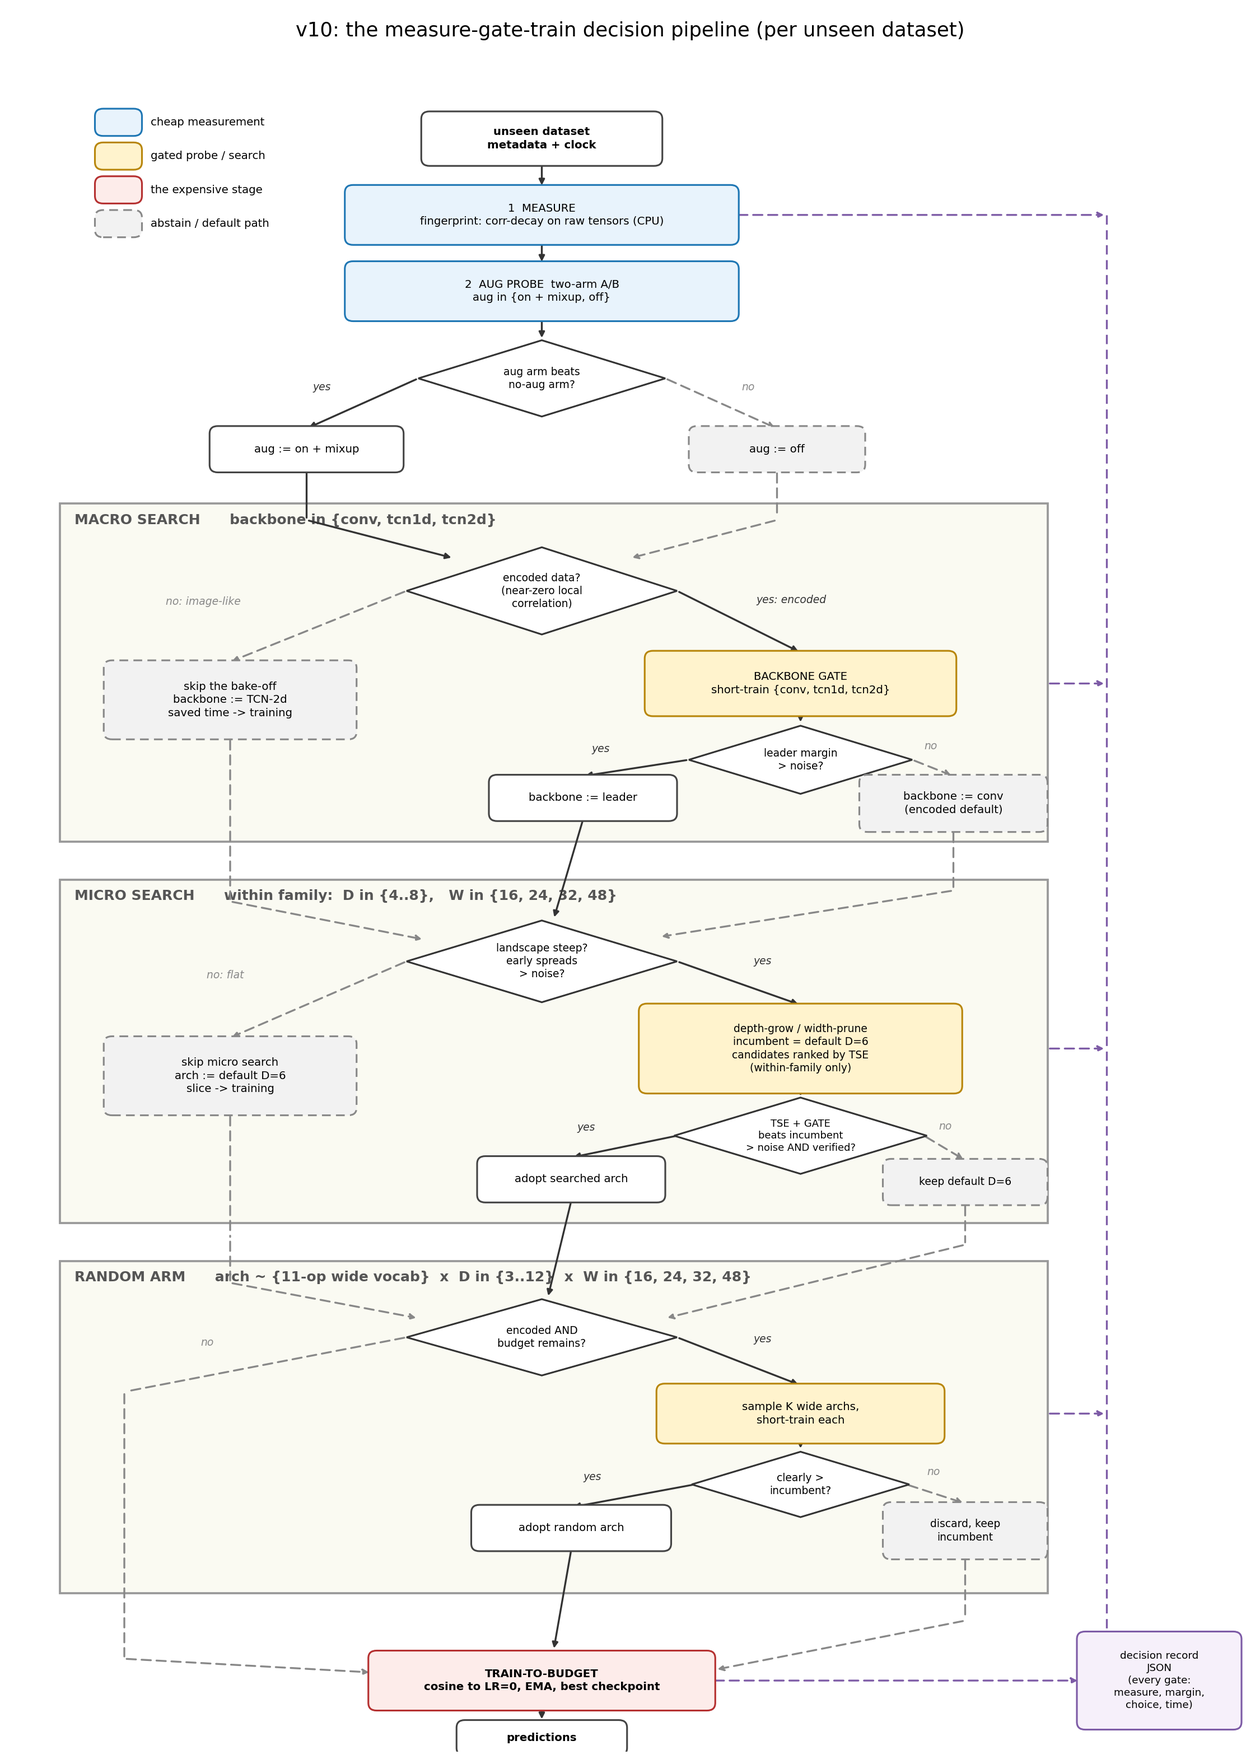
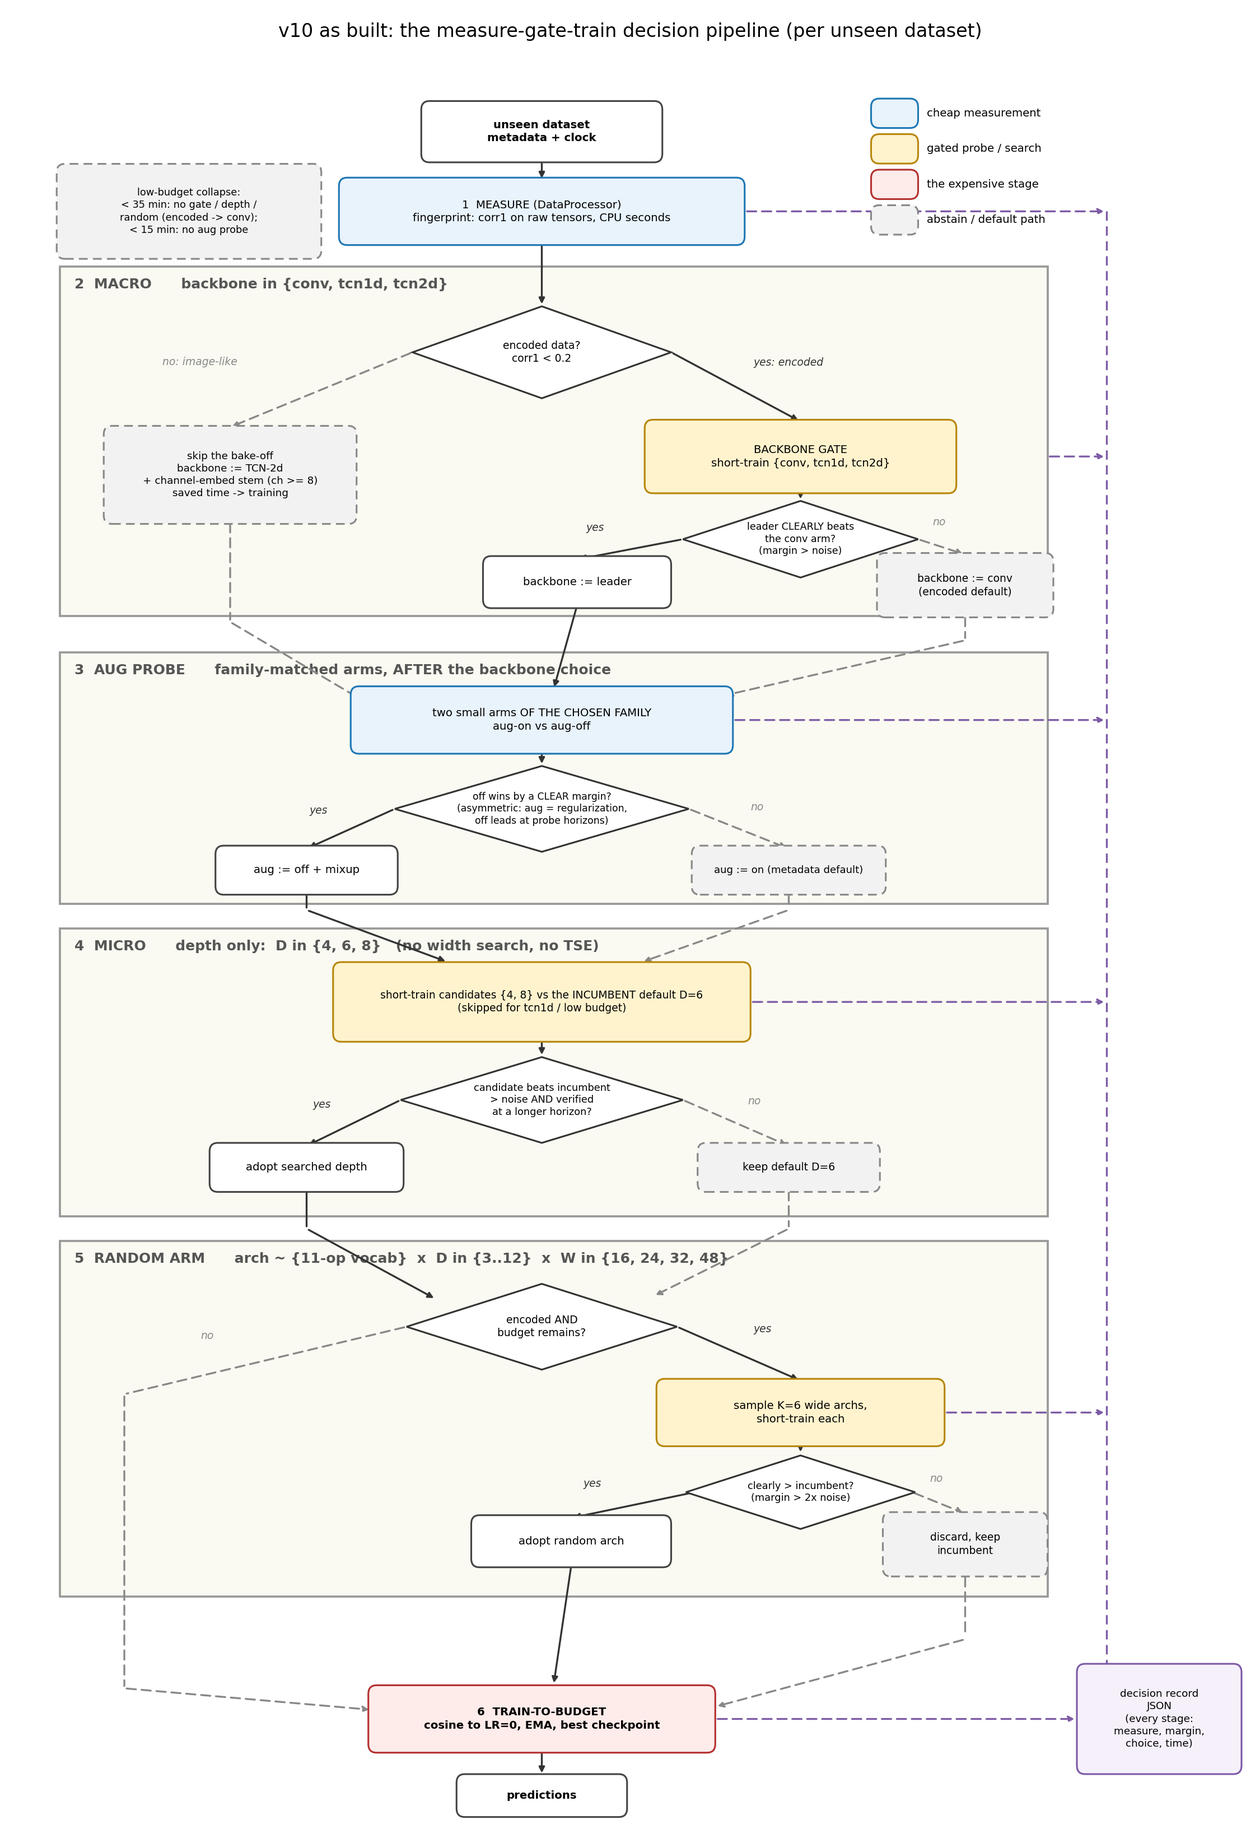
Pipeline diagram updated to as-built v10: aug probe after backbone choice (family-matched, asymmetric), depth-only micro, collapse note

diff --git a/dev/plot_v10_pipeline.py b/dev/plot_v10_pipeline.py
@@ -1,13 +1,11 @@
 #!/usr/bin/env python3
-"""v10 decision-pipeline figure (standalone image version of the mermaid
-draft in [[v10 - Design + Idea Ledger]]).
+"""v10 decision-pipeline figure, AS BUILT in baselines/v10 (2026-06-11).
 
-Structure: vertical flow with three big container blocks (MACRO backbone
-search, MICRO within-family search, RANDOM ARM), every yes/no gate drawn as
-a diamond with both outcomes, dashed = abstain/default path, search spaces
-in {} notation. No evidence numbers (clean structural version).
-Layout uses a large canvas with generous spacing; the decision-record rail
-sits fully outside the containers to avoid any overlap.
+Matches the implementation: aug probe AFTER the backbone choice with
+family-matched arms and the asymmetric off-margin rule (A5b + A6); micro =
+depth only with the D=6 incumbent (width search and TSE dropped per
+Phase A); random arm encoded-only; low-budget collapse note; decision-record
+rail outside the containers. No evidence numbers (clean structural version).
 """
 from pathlib import Path
 
@@ -19,16 +17,16 @@ from matplotlib.patches import FancyBboxPatch, Polygon, Rectangle
 REPO = Path(__file__).resolve().parent.parent
 OUT = REPO / "docs/notes/09 - Implementation/implementation/images/v10_pipeline.png"
 
-C_MEAS = ("#e8f3fc", "#1f77b4")   # measurement (cheap)
-C_GATE = ("#fff3cd", "#b8860b")   # gated probe / search
-C_TRAIN = ("#fdecea", "#b53030")  # the expensive stage
-C_DEF = ("#f2f2f2", "#888888")    # abstain / default path
-C_ART = ("#f6f0fa", "#7d5ba6")    # artifact
+C_MEAS = ("#e8f3fc", "#1f77b4")
+C_GATE = ("#fff3cd", "#b8860b")
+C_TRAIN = ("#fdecea", "#b53030")
+C_DEF = ("#f2f2f2", "#888888")
+C_ART = ("#f6f0fa", "#7d5ba6")
 C_PLAIN = ("#ffffff", "#444444")
 
-fig, ax = plt.subplots(figsize=(15, 21))
+fig, ax = plt.subplots(figsize=(15, 22))
 ax.set_xlim(0, 21)
-ax.set_ylim(0, 30.6)
+ax.set_ylim(3.8, 32.4)
 ax.axis("off")
 
 
@@ -76,104 +74,104 @@ def arrow(pts, dashed=False, label=None, lab_dx=0.15, lab_dy=0.0, color=None):
                 style="italic")
 
 
-# ---- top flow (spine at x=9) ----------------------------------------------
-box(9, 29.6, 4.0, 0.9, "unseen dataset\nmetadata + clock", bold=True)
-box(9, 28.2, 6.6, 1.0, "1  MEASURE\nfingerprint: corr-decay on raw tensors (CPU)", C_MEAS)
-box(9, 26.8, 6.6, 1.0, "2  AUG PROBE  two-arm A/B\naug in {on + mixup, off}", C_MEAS)
-diamond(9, 25.2, 4.2, 1.4, "aug arm beats\nno-aug arm?")
-box(5.0, 23.9, 3.2, 0.75, "aug := on + mixup")
-box(13.0, 23.9, 2.9, 0.75, "aug := off", C_DEF, dashed=True)
+# ---- top ---------------------------------------------------------------------
+box(9, 31.6, 4.0, 0.9, "unseen dataset\nmetadata + clock", bold=True)
+box(9, 30.3, 6.8, 1.0, "1  MEASURE (DataProcessor)\nfingerprint: corr1 on raw tensors, CPU seconds", C_MEAS)
+box(3.0, 30.3, 4.4, 1.45, "low-budget collapse:\n< 35 min: no gate / depth /\nrandom (encoded -> conv);\n< 15 min: no aug probe", C_DEF, dashed=True, fs=8.5)
+arrow([(9, 31.15), (9, 30.8)])
 
-arrow([(9, 29.15), (9, 28.7)])
-arrow([(9, 27.7), (9, 27.3)])
-arrow([(9, 26.3), (9, 25.9)])
-arrow([(6.9, 25.2), (5.0, 24.28)], label="yes", lab_dx=-0.85, lab_dy=0.3)
-arrow([(11.1, 25.2), (13.0, 24.28)], dashed=True, label="no", lab_dx=0.35, lab_dy=0.3)
+# ---- MACRO -------------------------------------------------------------------
+container(0.8, 23.7, 17.6, 29.4, "2  MACRO      backbone in {conv, tcn1d, tcn2d}")
+diamond(9, 28.0, 4.4, 1.5, "encoded data?\ncorr1 < 0.2")
+box(3.7, 26.0, 4.2, 1.5, "skip the bake-off\nbackbone := TCN-2d\n+ channel-embed stem (ch >= 8)\nsaved time -> training", C_DEF, dashed=True, fs=8.8)
+box(13.4, 26.3, 5.2, 1.1, "BACKBONE GATE\nshort-train {conv, tcn1d, tcn2d}", C_GATE)
+diamond(13.4, 24.95, 4.0, 1.25, "leader CLEARLY beats\nthe conv arm?\n(margin > noise)", fs=8.4)
+box(9.6, 24.25, 3.1, 0.75, "backbone := leader")
+box(16.2, 24.2, 2.9, 0.95, "backbone := conv\n(encoded default)", C_DEF, dashed=True, fs=9)
 
-# ---- MACRO container -------------------------------------------------------
-container(0.8, 16.7, 17.6, 22.9, "MACRO SEARCH      backbone in {conv, tcn1d, tcn2d}")
-diamond(9, 21.3, 4.6, 1.6, "encoded data?\n(near-zero local\ncorrelation)")
-box(3.7, 19.3, 4.2, 1.35, "skip the bake-off\nbackbone := TCN-2d\nsaved time -> training", C_DEF, dashed=True)
-box(13.4, 19.6, 5.2, 1.1, "BACKBONE GATE\nshort-train {conv, tcn1d, tcn2d}", C_GATE)
-diamond(13.4, 18.2, 3.8, 1.25, "leader margin\n> noise?")
-box(9.7, 17.5, 3.1, 0.75, "backbone := leader")
-box(16.0, 17.4, 3.1, 0.95, "backbone := conv\n(encoded default)", C_DEF, dashed=True)
+arrow([(9, 29.8), (9, 28.75)])
+arrow([(6.8, 28.0), (3.7, 26.78)], dashed=True, label="no: image-like",
+      lab_dx=-2.7, lab_dy=0.45)
+arrow([(11.2, 28.0), (13.4, 26.87)], label="yes: encoded", lab_dx=0.3, lab_dy=0.4)
+arrow([(13.4, 25.75), (13.4, 25.57)])
+arrow([(11.4, 24.95), (9.6, 24.62)], label="yes", lab_dx=-0.75, lab_dy=0.35)
+arrow([(15.4, 24.95), (16.2, 24.7)], dashed=True, label="no", lab_dx=-0.15, lab_dy=0.4)
 
-arrow([(5.0, 23.5), (5.0, 22.6), (7.5, 21.9)])                 # aug-on -> DENC
-arrow([(13.0, 23.5), (13.0, 22.6), (10.5, 21.9)], dashed=True)  # aug-off -> DENC
-arrow([(6.7, 21.3), (3.7, 20.0)], dashed=True, label="no: image-like",
-      lab_dx=-2.6, lab_dy=0.45)
-arrow([(11.3, 21.3), (13.4, 20.17)], label="yes: encoded", lab_dx=0.3, lab_dy=0.4)
-arrow([(13.4, 19.05), (13.4, 18.85)])
-arrow([(11.5, 18.2), (9.7, 17.9)], label="yes", lab_dx=-0.75, lab_dy=0.35)
-arrow([(15.3, 18.2), (16.0, 17.9)], dashed=True, label="no", lab_dx=-0.15, lab_dy=0.4)
+# ---- AUG ---------------------------------------------------------------------
+container(0.8, 19.0, 17.6, 23.1, "3  AUG PROBE      family-matched arms, AFTER the backbone choice")
+box(9, 22.0, 6.4, 1.0, "two small arms OF THE CHOSEN FAMILY\naug-on vs aug-off", C_MEAS)
+diamond(9, 20.55, 5.0, 1.4, "off wins by a CLEAR margin?\n(asymmetric: aug = regularization,\noff leads at probe horizons)", fs=8.3)
+box(5.0, 19.55, 3.0, 0.7, "aug := off + mixup")
+box(13.2, 19.55, 3.2, 0.7, "aug := on (metadata default)", C_DEF, dashed=True, fs=8.7)
 
-# ---- MICRO container -------------------------------------------------------
-container(0.8, 9.7, 17.6, 16.0, "MICRO SEARCH      within family:  D in {4..8},   W in {16, 24, 32, 48}")
-diamond(9, 14.5, 4.6, 1.5, "landscape steep?\nearly spreads\n> noise?")
-box(3.7, 12.4, 4.2, 1.35, "skip micro search\narch := default D=6\nslice -> training", C_DEF, dashed=True)
-box(13.4, 12.9, 5.4, 1.55, "depth-grow / width-prune\nincumbent = default D=6\ncandidates ranked by TSE\n(within-family only)", C_GATE, fs=9)
-diamond(13.4, 11.3, 4.3, 1.4, "TSE + GATE\nbeats incumbent\n> noise AND verified?", fs=8.6)
-box(9.5, 10.5, 3.1, 0.75, "adopt searched arch")
-box(16.2, 10.45, 2.7, 0.75, "keep default D=6", C_DEF, dashed=True, fs=9)
+arrow([(3.7, 25.25), (3.7, 23.6), (5.9, 22.35)], dashed=True)   # skip -> arms
+arrow([(9.6, 23.87), (9.2, 22.5)])                              # leader -> arms
+arrow([(16.2, 23.72), (16.2, 23.3), (12.1, 22.4)], dashed=True)  # conv default -> arms
+arrow([(9, 21.5), (9, 21.25)])
+arrow([(6.5, 20.55), (5.0, 19.9)], label="yes", lab_dx=-0.7, lab_dy=0.3)
+arrow([(11.5, 20.55), (13.2, 19.9)], dashed=True, label="no", lab_dx=0.2, lab_dy=0.35)
 
-arrow([(3.7, 18.6), (3.7, 17.2), (3.7, 15.6), (7.0, 14.9)], dashed=True)
-arrow([(9.7, 17.1), (9.2, 15.27)])
-arrow([(16.0, 16.9), (16.0, 15.8), (11.0, 14.95)], dashed=True)
-arrow([(6.7, 14.5), (3.7, 13.1)], dashed=True, label="no: flat", lab_dx=-1.9, lab_dy=0.45)
-arrow([(11.3, 14.5), (13.4, 13.7)], label="yes", lab_dx=0.25, lab_dy=0.4)
-arrow([(13.4, 12.12), (13.4, 12.0)])
-arrow([(11.3, 11.3), (9.5, 10.9)], label="yes", lab_dx=-0.8, lab_dy=0.35)
-arrow([(15.5, 11.3), (16.2, 10.85)], dashed=True, label="no", lab_dx=-0.1, lab_dy=0.4)
+# ---- MICRO -------------------------------------------------------------------
+container(0.8, 13.9, 17.6, 18.6, "4  MICRO      depth only:  D in {4, 6, 8}   (no width search, no TSE)")
+box(9, 17.4, 7.0, 1.2, "short-train candidates {4, 8} vs the INCUMBENT default D=6\n(skipped for tcn1d / low budget)", C_GATE, fs=9)
+diamond(9, 15.8, 4.8, 1.4, "candidate beats incumbent\n> noise AND verified\nat a longer horizon?", fs=8.5)
+box(5.0, 14.7, 3.2, 0.7, "adopt searched depth")
+box(13.2, 14.7, 3.0, 0.7, "keep default D=6", C_DEF, dashed=True, fs=9)
 
-# ---- RANDOM ARM container ---------------------------------------------------
-container(0.8, 2.9, 17.6, 9.0, "RANDOM ARM      arch ~ {11-op wide vocab}  x  D in {3..12}  x  W in {16, 24, 32, 48}")
-diamond(9, 7.6, 4.6, 1.4, "encoded AND\nbudget remains?")
-box(13.4, 6.2, 4.8, 1.0, "sample K wide archs,\nshort-train each", C_GATE)
-diamond(13.4, 4.9, 3.7, 1.2, "clearly >\nincumbent?")
-box(9.5, 4.1, 3.3, 0.75, "adopt random arch")
-box(16.2, 4.05, 2.7, 0.95, "discard, keep\nincumbent", C_DEF, dashed=True, fs=9)
+arrow([(5.0, 19.2), (5.0, 18.9), (7.4, 18.05)])
+arrow([(13.2, 19.2), (13.2, 18.9), (10.7, 18.05)], dashed=True)
+arrow([(9, 16.8), (9, 16.5)])
+arrow([(6.6, 15.8), (5.0, 15.05)], label="yes", lab_dx=-0.7, lab_dy=0.3)
+arrow([(11.4, 15.8), (13.2, 15.05)], dashed=True, label="no", lab_dx=0.2, lab_dy=0.35)
 
-arrow([(3.7, 11.7), (3.7, 9.4), (3.7, 8.6), (6.9, 7.95)], dashed=True)
-arrow([(9.5, 10.1), (9.1, 8.32)])
-arrow([(16.2, 10.05), (16.2, 9.3), (11.1, 7.95)], dashed=True)
-arrow([(11.3, 7.6), (13.4, 6.72)], label="yes", lab_dx=0.25, lab_dy=0.4)
-arrow([(6.7, 7.6), (1.9, 6.6), (1.9, 1.7), (6.1, 1.45)], dashed=True,
+# ---- RANDOM ------------------------------------------------------------------
+container(0.8, 7.7, 17.6, 13.5, "5  RANDOM ARM      arch ~ {11-op vocab}  x  D in {3..12}  x  W in {16, 24, 32, 48}")
+diamond(9, 12.1, 4.6, 1.4, "encoded AND\nbudget remains?")
+box(13.4, 10.7, 4.8, 1.0, "sample K=6 wide archs,\nshort-train each", C_GATE)
+diamond(13.4, 9.4, 3.9, 1.2, "clearly > incumbent?\n(margin > 2x noise)", fs=8.5)
+box(9.5, 8.6, 3.3, 0.75, "adopt random arch")
+box(16.2, 8.55, 2.7, 0.95, "discard, keep\nincumbent", C_DEF, dashed=True, fs=9)
+
+arrow([(5.0, 14.35), (5.0, 13.7), (7.2, 12.55)])
+arrow([(13.2, 14.35), (13.2, 13.7), (10.9, 12.6)], dashed=True)
+arrow([(11.3, 12.1), (13.4, 11.22)], label="yes", lab_dx=0.25, lab_dy=0.4)
+arrow([(6.7, 12.1), (1.9, 11.0), (1.9, 6.2), (6.1, 5.85)], dashed=True,
       label="no", lab_dx=-1.1, lab_dy=0.4)
-arrow([(13.4, 5.7), (13.4, 5.52)])
-arrow([(11.6, 4.9), (9.5, 4.48)], label="yes", lab_dx=-0.85, lab_dy=0.35)
-arrow([(15.2, 4.9), (16.2, 4.55)], dashed=True, label="no", lab_dx=-0.15, lab_dy=0.4)
+arrow([(13.4, 10.2), (13.4, 10.02)])
+arrow([(11.6, 9.4), (9.5, 8.98)], label="yes", lab_dx=-0.85, lab_dy=0.35)
+arrow([(15.3, 9.4), (16.2, 9.05)], dashed=True, label="no", lab_dx=-0.15, lab_dy=0.4)
 
-# ---- bottom -----------------------------------------------------------------
-box(9, 1.3, 5.8, 1.0, "TRAIN-TO-BUDGET\ncosine to LR=0, EMA, best checkpoint", C_TRAIN, bold=True)
-box(9, 0.25, 2.8, 0.55, "predictions", bold=True)
-arrow([(9.5, 3.7), (9.2, 1.85)])
-arrow([(16.2, 3.55), (16.2, 2.4), (11.95, 1.5)], dashed=True)
-arrow([(9, 0.78), (9, 0.55)])
+# ---- bottom ------------------------------------------------------------------
+box(9, 5.7, 5.8, 1.0, "6  TRAIN-TO-BUDGET\ncosine to LR=0, EMA, best checkpoint", C_TRAIN, bold=True)
+box(9, 4.45, 2.8, 0.6, "predictions", bold=True)
+arrow([(9.5, 8.2), (9.2, 6.25)])
+arrow([(16.2, 8.05), (16.2, 7.0), (11.95, 5.9)], dashed=True)
+arrow([(9, 5.18), (9, 4.78)])
 
-# ---- decision record (rail fully OUTSIDE the containers) ---------------------
+# ---- decision record rail ------------------------------------------------------
 RAILX = 18.6
-box(19.5, 1.3, 2.7, 1.7, "decision record\nJSON\n(every gate:\nmeasure, margin,\nchoice, time)", C_ART, fs=8.8)
-arrow([(12.3, 28.2), (RAILX, 28.2)], dashed=True, color=C_ART[1])     # measure stub
-arrow([(17.6, 19.6), (RAILX, 19.6)], dashed=True, color=C_ART[1])     # macro stub
-arrow([(17.6, 12.9), (RAILX, 12.9)], dashed=True, color=C_ART[1])     # micro stub
-arrow([(17.6, 6.2), (RAILX, 6.2)], dashed=True, color=C_ART[1])       # random stub
-arrow([(11.9, 1.3), (18.15, 1.3)], dashed=True, color=C_ART[1])       # train stub
-ax.plot([RAILX, RAILX], [28.2, 1.3], linestyle=(0, (5, 3)),
+box(19.5, 5.7, 2.7, 1.7, "decision record\nJSON\n(every stage:\nmeasure, margin,\nchoice, time)", C_ART, fs=8.8)
+arrow([(12.45, 30.3), (RAILX, 30.3)], dashed=True, color=C_ART[1])
+arrow([(17.6, 26.3), (RAILX, 26.3)], dashed=True, color=C_ART[1])
+arrow([(12.25, 22.0), (RAILX, 22.0)], dashed=True, color=C_ART[1])
+arrow([(12.55, 17.4), (RAILX, 17.4)], dashed=True, color=C_ART[1])
+arrow([(15.85, 10.7), (RAILX, 10.7)], dashed=True, color=C_ART[1])
+arrow([(11.95, 5.7), (18.1, 5.7)], dashed=True, color=C_ART[1])
+ax.plot([RAILX, RAILX], [30.3, 5.7], linestyle=(0, (5, 3)),
         color=C_ART[1], lw=1.6, zorder=2)
 
-# ---- legend (top left, clear of everything) ----------------------------------
-lx, ly = 1.4, 29.9
+# ---- legend ------------------------------------------------------------------
+lx, ly = 14.6, 31.9
 for dy, (colors, lab, dash) in enumerate([
         (C_MEAS, "cheap measurement", False),
         (C_GATE, "gated probe / search", False),
         (C_TRAIN, "the expensive stage", False),
         (C_DEF, "abstain / default path", True)]):
-    box(lx + 0.4, ly - dy * 0.62, 0.7, 0.4, "", colors, dashed=dash)
-    ax.text(lx + 0.95, ly - dy * 0.62, lab, fontsize=9.5, va="center")
+    box(lx + 0.4, ly - dy * 0.58, 0.7, 0.38, "", colors, dashed=dash)
+    ax.text(lx + 0.95, ly - dy * 0.58, lab, fontsize=9.5, va="center")
 
-fig.suptitle("v10: the measure-gate-train decision pipeline (per unseen dataset)",
-             fontsize=17, y=0.988)
+fig.suptitle("v10 as built: the measure-gate-train decision pipeline (per unseen dataset)",
+             fontsize=16, y=0.988)
 fig.tight_layout(rect=[0, 0, 1, 0.978])
 OUT.parent.mkdir(parents=True, exist_ok=True)
 fig.savefig(OUT, dpi=150)

diff --git a/docs/notes/09 - Implementation/implementation/v10 - Design + Idea Ledger.md b/docs/notes/09 - Implementation/implementation/v10 - Design + Idea Ledger.md
@@ -110,7 +110,7 @@ Failure containment: every stage has a timeout and a fallback to the previous de
 
 ### Pipeline diagram (current-best design, renders in Obsidian)
 
-Reading guide: diamonds are the runtime yes/no gates; every branch states what results from it. Dashed = the abstain/default path (bounded downside by construction). Blue = cheap measurement, yellow = gated probes, red = the one expensive stage. This is the design we currently believe is optimal; pieces still pending their Phase A test are drawn as decided.
+Reading guide: diamonds are the runtime yes/no gates; every branch states what results from it. Dashed = the abstain/default path (bounded downside by construction). Blue = cheap measurement, yellow = gated probes, red = the one expensive stage. AS BUILT in `baselines/v10/` (2026-06-11): aug probe AFTER the backbone choice with family-matched arms and the asymmetric off-margin rule (A5b + A6); micro = depth only with the D=6 incumbent (width search and TSE dropped per Phase A); low-budget collapse included.
 
 ```mermaid
 flowchart TD
@@ -121,52 +121,53 @@ flowchart TD
     classDef art fill:#f6f0fa,stroke:#7d5ba6,color:#000
 
     IN["unseen dataset<br/>metadata + clock"]
-    FP["1 MEASURE<br/>fingerprint: corr-decay<br/>on raw tensors (CPU)"]:::measure
-    AUG["2 AUG PROBE<br/>two-arm A/B<br/>aug in {on+mixup, off}"]:::measure
-    DAUG{"aug arm beats<br/>no-aug arm?"}
-    AUGON["aug := on + mixup"]
-    AUGOFF["aug := off"]:::defpath
+    FP["1 MEASURE (DataProcessor)<br/>fingerprint: corr1 on raw tensors<br/>CPU, seconds"]:::measure
 
-    subgraph MACRO["MACRO SEARCH: backbone family in {conv, tcn1d, tcn2d}"]
-        DENC{"encoded data?<br/>(near-zero local<br/>correlation)"}
-        SKIPBO["skip the bake-off<br/>backbone := TCN-2d<br/>saved time -> training"]:::defpath
-        GATE["BACKBONE GATE<br/>short-train all of<br/>{conv, tcn1d, tcn2d}<br/>matched budget"]:::gate
-        DLEAD{"leader margin<br/>> measured noise?"}
+    subgraph MACRO["2 MACRO: backbone in {conv, tcn1d, tcn2d}"]
+        DENC{"encoded data?<br/>corr1 < 0.2"}
+        SKIPBO["skip the bake-off<br/>backbone := TCN-2d<br/>(+ channel-embed stem if ch >= 8)<br/>saved time -> training"]:::defpath
+        GATE["BACKBONE GATE<br/>short-train {conv, tcn1d, tcn2d}<br/>matched wall-clock"]:::gate
+        DLEAD{"leader clearly beats<br/>the conv arm?<br/>(margin > noise)"}
         PICK["backbone := leader"]
-        PRIOR["backbone := conv<br/>(robust encoded default)"]:::defpath
+        PRIOR["backbone := conv<br/>(encoded default)"]:::defpath
     end
 
-    subgraph MICRO["MICRO SEARCH: within family, D in {4..8}, W in {16,24,32,48}"]
-        DSTEEP{"landscape steep?<br/>early spreads > noise?"}
-        SKIPS["skip micro search<br/>arch := default D=6<br/>whole slice -> training"]:::defpath
-        SEARCH["depth-grow / width-prune<br/>incumbent = default D=6<br/>candidates ranked by TSE<br/>(within-family only)"]:::gate
-        DCAND{"TSE + GATE:<br/>candidate beats incumbent<br/>> noise AND verified?"}
-        ADOPT["adopt searched arch"]
+    subgraph AUGB["3 AUG PROBE: family-matched, AFTER the backbone choice"]
+        ARMS["two small arms OF THE<br/>CHOSEN family: aug-on vs aug-off"]:::measure
+        DAUG{"off wins by a CLEAR margin?<br/>(asymmetric: aug = regularization,<br/>off leads at probe horizons)"}
+        AUGOFF["aug := off + mixup"]
+        AUGON["aug := on<br/>(metadata default)"]:::defpath
+    end
+
+    subgraph MICRO["4 MICRO: depth only, D in {4, 6, 8} (no width search, no TSE)"]
+        DEPTH["short-train candidates {4, 8}<br/>incumbent = default D=6<br/>(skipped for tcn1d / low budget)"]:::gate
+        DCAND{"candidate beats incumbent<br/>> noise AND verified<br/>at a longer horizon?"}
+        ADOPT["adopt searched depth"]
         KEEPD["keep default D=6"]:::defpath
     end
 
-    subgraph RANDB["RANDOM ARM: arch ~ {11-op wide vocab} x D in {3..12} x W in {16,24,32,48}"]
+    subgraph RANDB["5 RANDOM ARM: arch ~ {11-op vocab} x D in {3..12} x W in {16,24,32,48}"]
         DRAND{"encoded AND<br/>budget remains?"}
-        RAND["sample K wide archs,<br/>short-train each,<br/>train best longer"]:::gate
-        DRBEST{"random best clearly<br/>> incumbent?"}
+        RAND["sample K=6 wide archs,<br/>short-train each"]:::gate
+        DRBEST{"clearly > incumbent?<br/>(margin > 2x noise)"}
         RADOPT["adopt random arch"]
         RDISC["discard,<br/>keep incumbent"]:::defpath
     end
 
-    TRAIN["TRAIN-TO-BUDGET<br/>cosine to LR=0, EMA,<br/>best checkpoint"]:::train
+    TRAIN["6 TRAIN-TO-BUDGET<br/>cosine to LR=0, EMA, best checkpoint"]:::train
     OUT["predictions"]
-    REC[("decision record JSON<br/>every gate: measurement,<br/>margin, choice, time spent")]:::art
+    REC[("decision record JSON<br/>every stage: measurement,<br/>margin, choice, time spent")]:::art
+    COLL["low-budget collapse:<br/>< 35 min: no gate / depth / random,<br/>encoded -> conv default;<br/>< 15 min: no aug probe either"]:::defpath
 
-    IN --> FP --> AUG
-    AUG --> DAUG
-    DAUG -->|yes| AUGON --> DENC
-    DAUG -.->|no| AUGOFF -.-> DENC
-    DENC -.->|"no: image-like"| SKIPBO -.-> DSTEEP
-    DENC -->|"yes: encoded"| GATE --> DLEAD
-    DLEAD -->|yes| PICK --> DSTEEP
-    DLEAD -.->|no| PRIOR -.-> DSTEEP
-    DSTEEP -.->|"no: flat"| SKIPS -.-> DRAND
-    DSTEEP -->|"yes"| SEARCH --> DCAND
+    IN --> FP --> DENC
+    DENC -.->|"no: image-like (9/13)"| SKIPBO -.-> ARMS
+    DENC -->|"yes: encoded (4/13)"| GATE --> DLEAD
+    DLEAD -->|yes| PICK --> ARMS
+    DLEAD -.->|no| PRIOR -.-> ARMS
+    ARMS --> DAUG
+    DAUG -->|yes| AUGOFF --> DEPTH
+    DAUG -.->|no| AUGON -.-> DEPTH
+    DEPTH --> DCAND
     DCAND -->|yes| ADOPT --> DRAND
     DCAND -.->|no| KEEPD -.-> DRAND
     DRAND -->|yes| RAND --> DRBEST
@@ -176,9 +177,10 @@ flowchart TD
     TRAIN --> OUT
     FP -.-> REC
     GATE -.-> REC
-    SEARCH -.-> REC
+    DEPTH -.-> REC
     RAND -.-> REC
     TRAIN -.-> REC
+    COLL ~~~ REC
 ```
 
 Standalone image version (same structure, for embedding and the proposal): `![[v10_pipeline.png]]`, generated by `dev/plot_v10_pipeline.py`.
